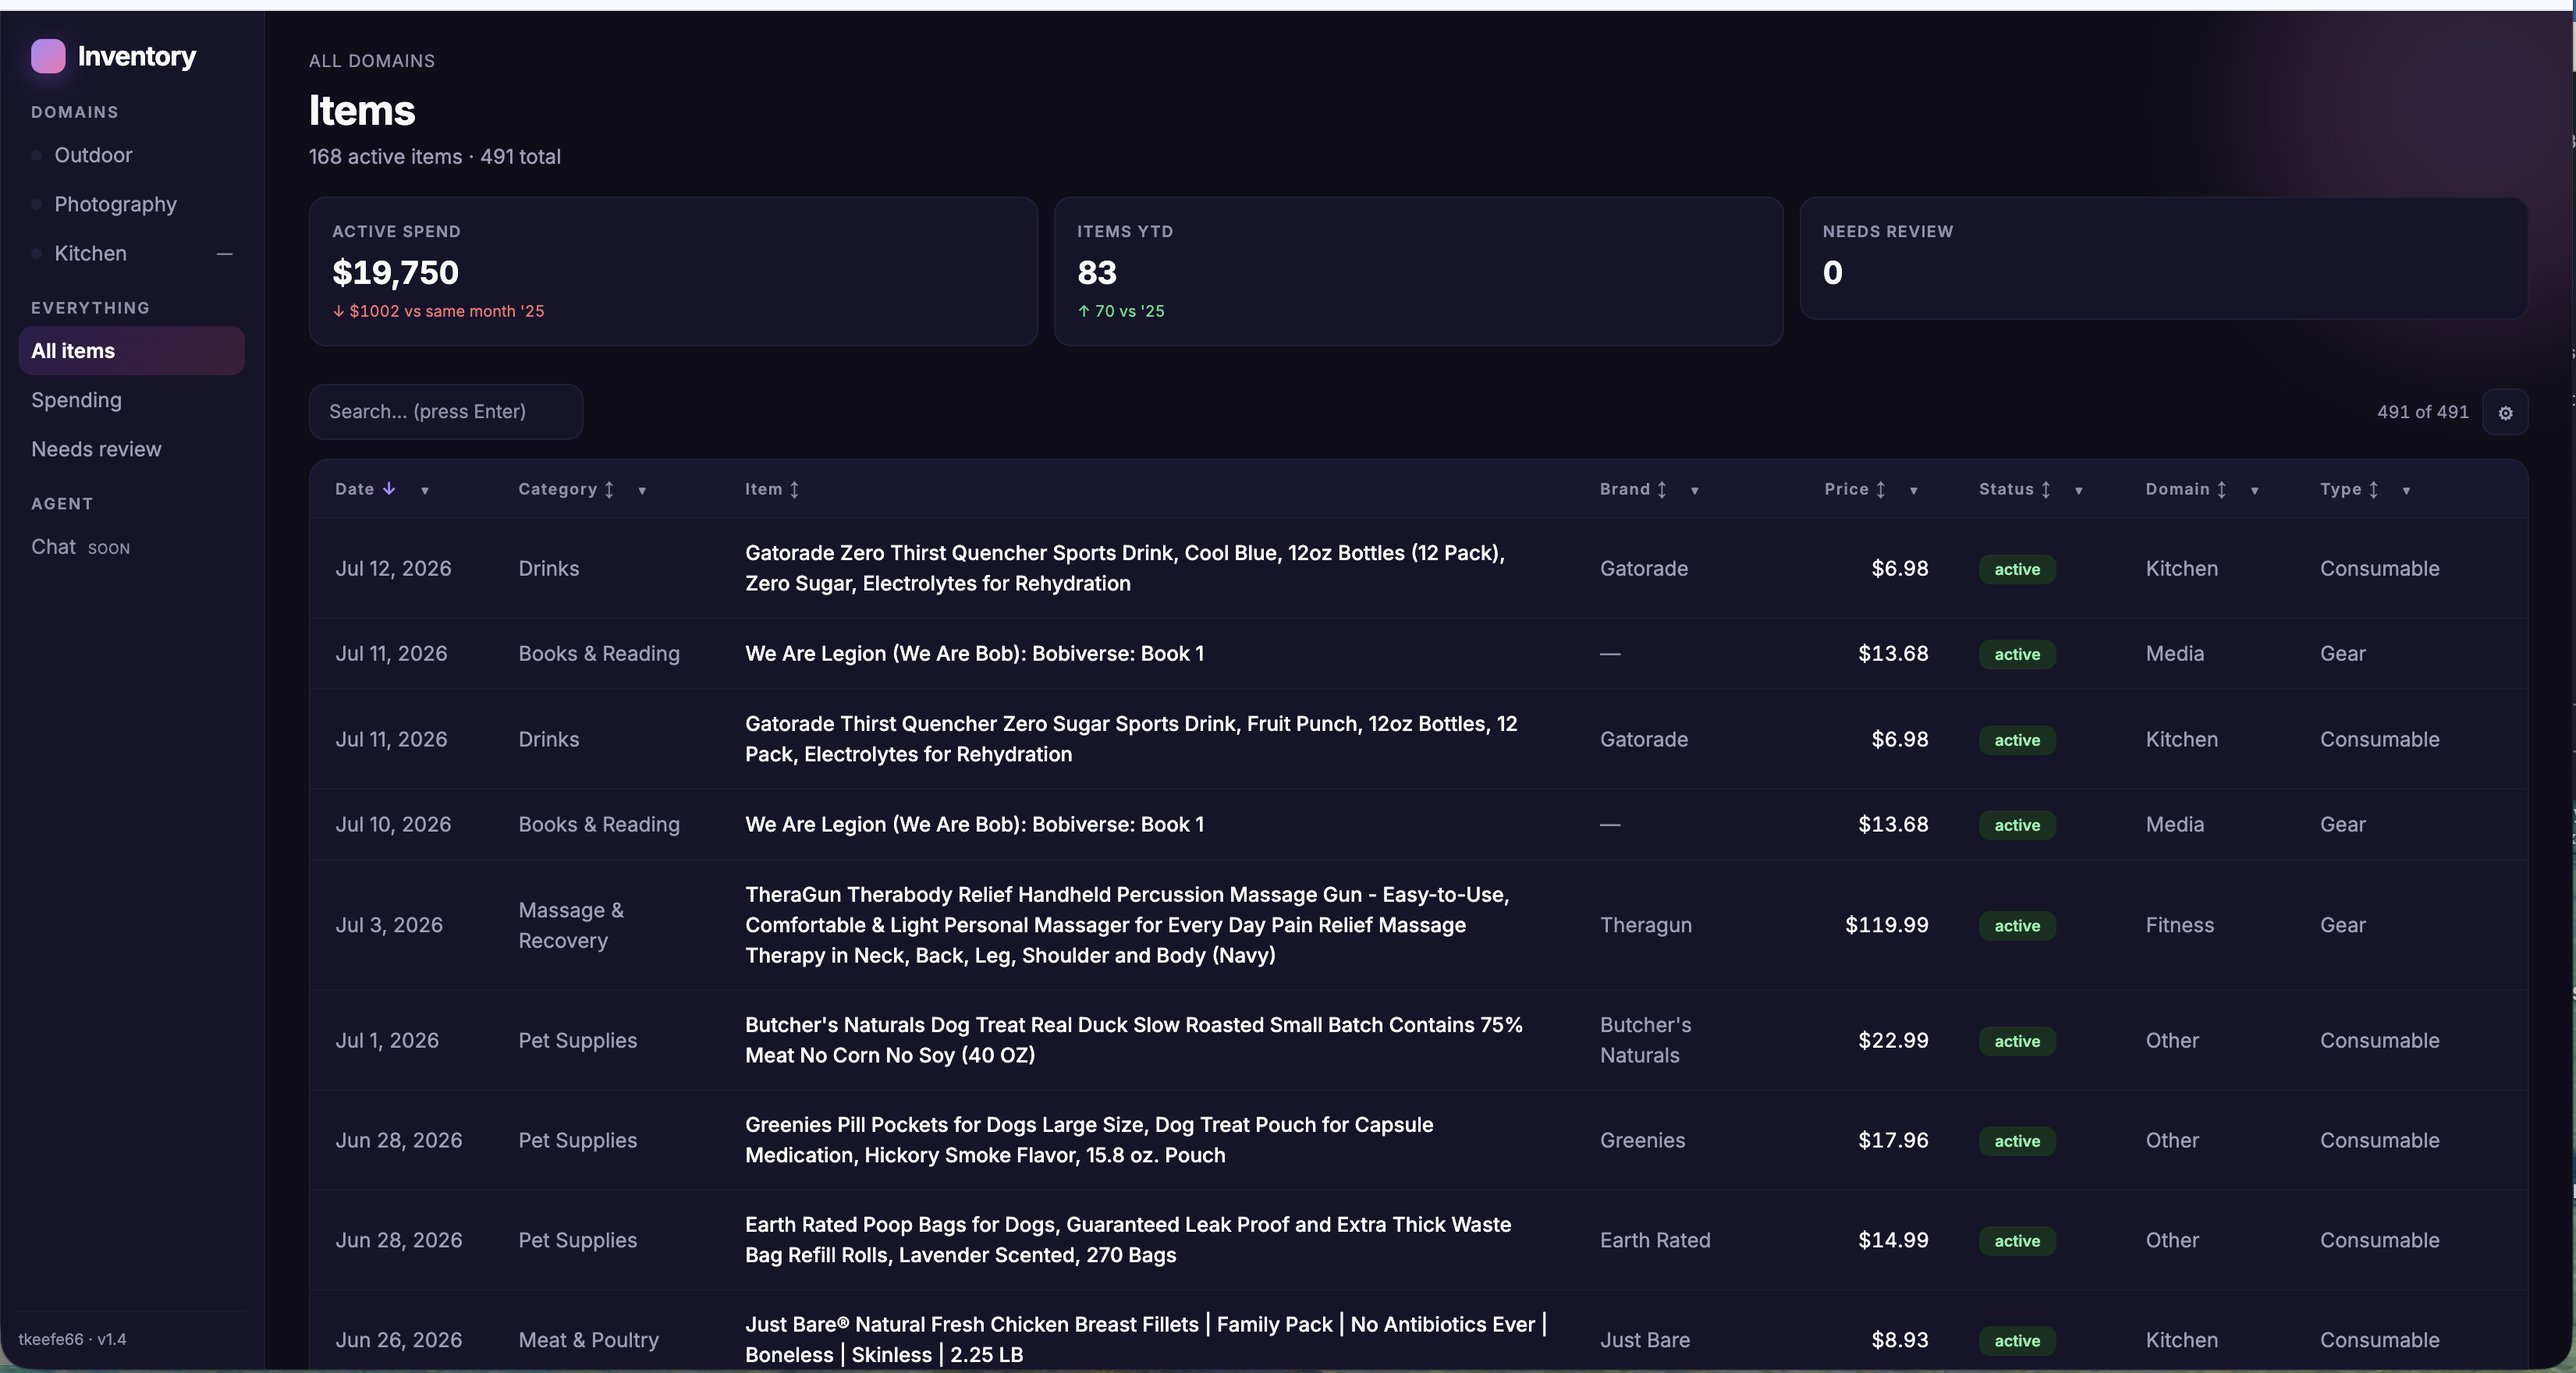
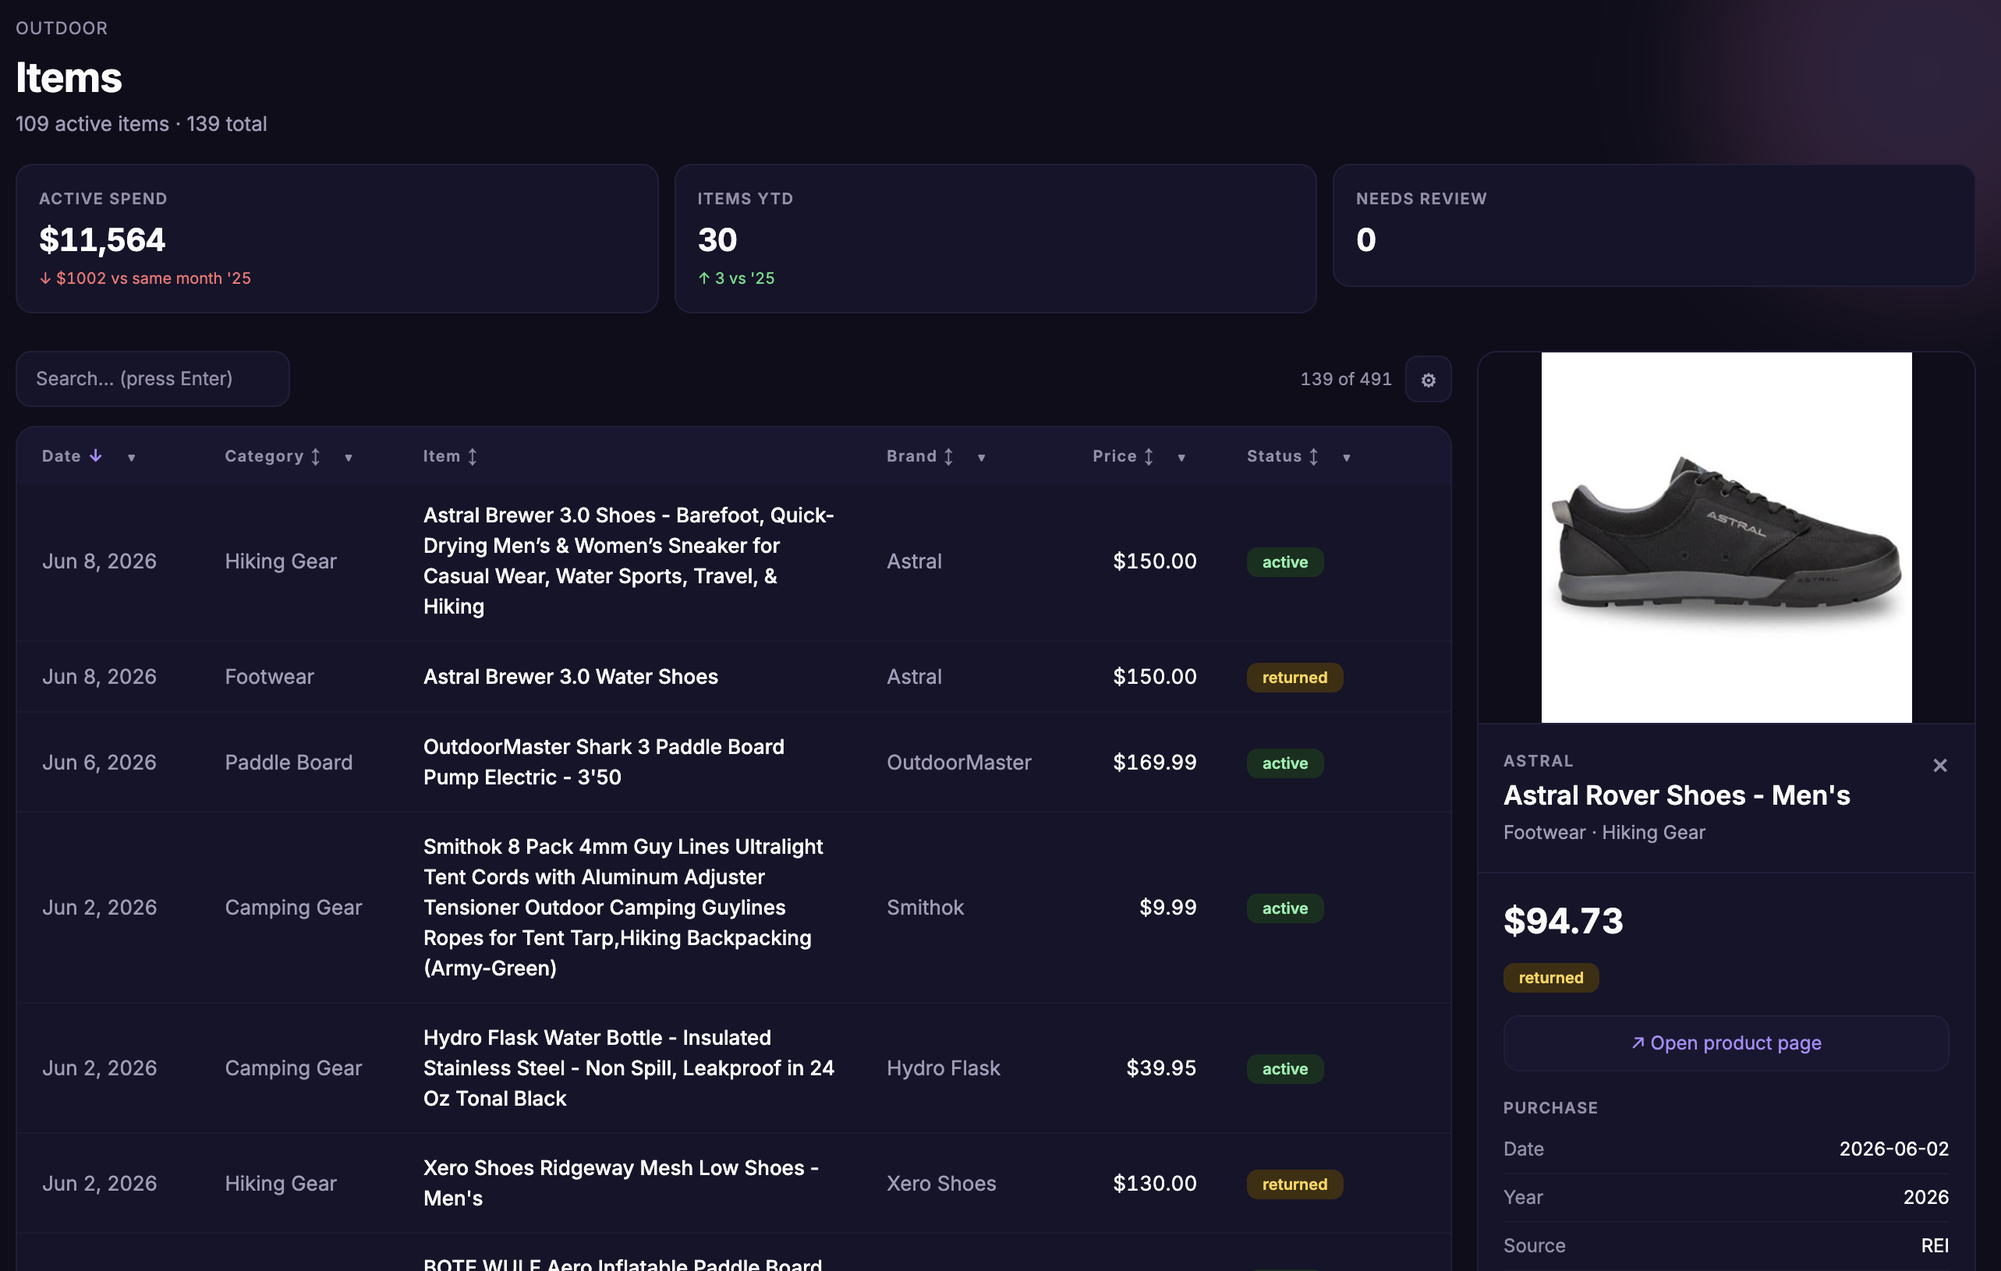
content: two new telegram-agent figures, replace inventory's dark capture
Outdoor Telegram Agent gets FIG. 01 (a /plan hiking request and the
bot's ranked-trail/forecast/gear reply) and FIG. 02 (the camping
command group), both read from the supplied screenshots and captioned
to what's actually visible. Removes that project's "one-figure"
BASELINE debt entry now that it has figures.

Inventory's figure is replaced with a newer dark-mode capture; the
caption is rewritten from the actual header count, active-spend tile
and needs-review tile rather than the stale numbers it previously
carried.

Claude-Session: https://claude.ai/code/session_011Q7WqBM6enj3a21mc4wriD

diff --git a/content/projects.ts b/content/projects.ts
@@ -172,13 +172,14 @@ export const projectDetails: ProjectDetail[] = [
     figures: [
       {
         src: "/projects/inventory.png",
-        alt: "Inventory items table",
-        caption: "FIG. 01 — ITEM LEDGER. 491 RECORDS, AUTO-CATEGORIZED, 0 AWAITING REVIEW.",
-        height: 480,
+        alt: "Item ledger dashboard with active-spend, items-YTD and needs-review tiles above a filtered purchase table and a selected item's detail panel",
+        caption:
+          "FIG. 01 — ITEM LEDGER. 109 ACTIVE OF 491 TOTAL RECORDS, $11,564 ACTIVE SPEND, 0 NEEDS REVIEW.",
+        height: 560,
         wide: true,
         capture: "dark",
-        width: 3302,
-        naturalHeight: 1760,
+        width: 2566,
+        naturalHeight: 1630,
       },
     ],
     og: { image: "/og/inventory.png", alt: "Outdoor Inventory Mgmt — Tom Keefe" },
@@ -264,7 +265,30 @@ export const projectDetails: ProjectDetail[] = [
       { label: "DELIVERY", value: "25-second long-poll, no webhook" },
       { label: "STATUS", value: "Live, personal" },
     ],
-    figures: [],
+    figures: [
+      {
+        src: "/projects/telegram-agent.png",
+        alt: "Telegram thread showing a /plan slash command and the bot's multi-part reply with ranked trail options, a forecast and a gear list",
+        caption:
+          "FIG. 01 — /PLAN COMMAND. A HIKING REQUEST FOR ASPEN ANSWERED WITH RANKED TRAILS, FORECAST AND GEAR PULLED FROM THE OWNED KIT.",
+        height: 980,
+        wide: false,
+        capture: "light",
+        width: 1666,
+        naturalHeight: 1494,
+      },
+      {
+        src: "/projects/telegram-commands.png",
+        alt: "List of Telegram slash commands under a Camping heading, each with its arguments and a one-line description",
+        caption:
+          "FIG. 02 — CAMPING COMMANDS. WATCHLIST, TRIP TRACKING AND REGION LOOKUP, ALL ROUTED THROUGH ONE DISPATCHER.",
+        height: 375,
+        wide: false,
+        capture: "light",
+        width: 934,
+        naturalHeight: 320,
+      },
+    ],
     next: { slug: "dynasty-analyzer" },
   },
   {

diff --git a/tests/writeup-contract.test.ts b/tests/writeup-contract.test.ts
@@ -79,7 +79,6 @@ const ALLOWED: Record<string, string[]> = {};
 
 /** Migration debt — generated by scripts/gen-writeup-baseline.ts. Shrinks only. */
 const BASELINE: Record<string, string[]> = {
-  "outdoor-telegram-agent": ["one-figure"],
   "dynasty-analyzer": ["one-figure"],
   "tomkeefe-ai": ["one-figure"],
   "camera-agent": ["one-figure"],
